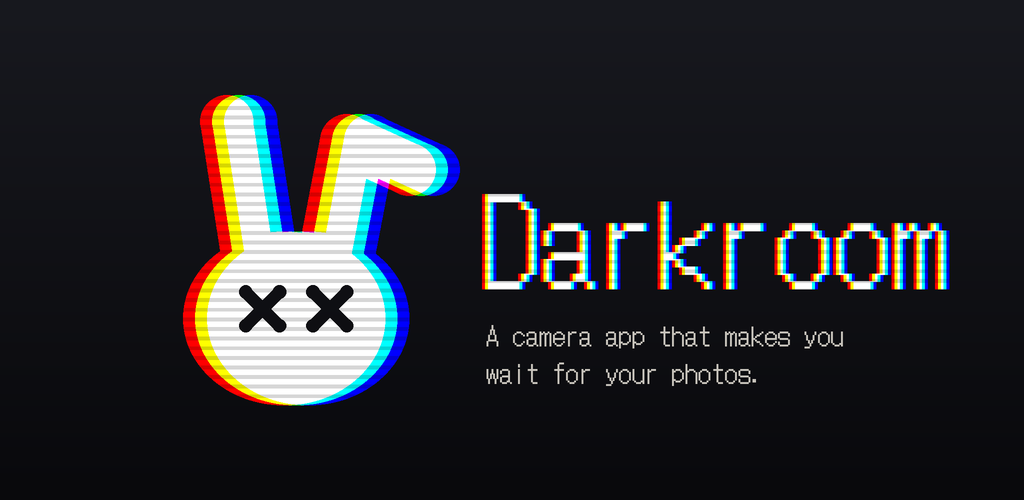
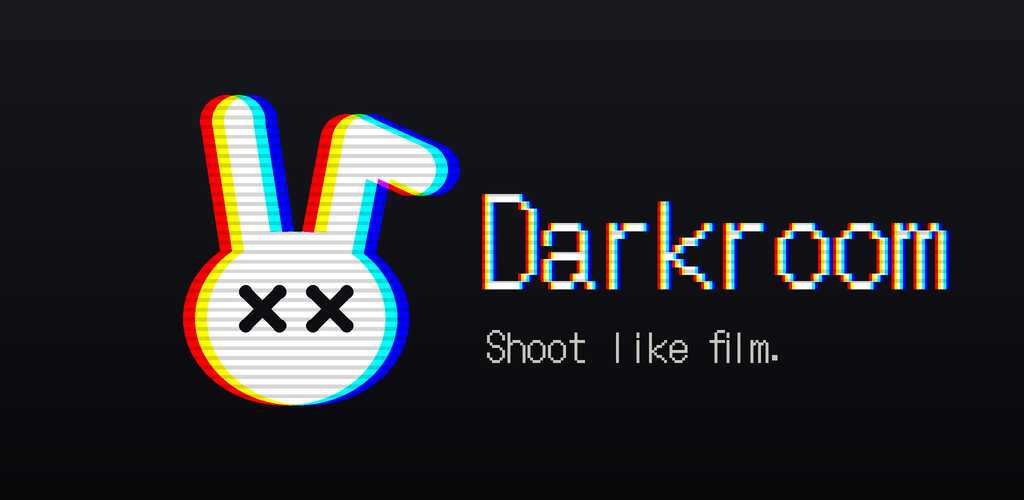
Feature graphic and social preview: 'Shoot like film.'

Changed region(s): [[0.4688, 0.66, 0.8438, 0.78]]

diff --git a/tool/icon/make_icons.py b/tool/icon/make_icons.py
@@ -167,7 +167,7 @@ def status_glyph(px):
 
 def social_preview(w=1280, h=640):
     """Banner: the rabbit, the name in the app's pixel font with the same
-    colour split, and the one-line pitch. 1280x640 for GitHub's social
+    colour split, and the tagline. 1280x640 for GitHub's social
     preview, 1024x500 for the Play Store feature graphic."""
     S = 2
     k = h / 640
@@ -186,7 +186,7 @@ def social_preview(w=1280, h=640):
 
     # Name: three offset copies of the text, added like light.
     font = ImageFont.truetype(os.path.join(ROOT, 'assets', 'fonts', 'DotGothic16-Regular.ttf'), round(150 * k * S))
-    small = ImageFont.truetype(os.path.join(ROOT, 'assets', 'fonts', 'DotGothic16-Regular.ttf'), round(34 * k * S))
+    small = ImageFont.truetype(os.path.join(ROOT, 'assets', 'fonts', 'DotGothic16-Regular.ttf'), round(52 * k * S))
     tx, ty = round(W * 0.47), round(H * 0.30)
 
     def text_mask(txt, f, dx=0, dy=0):
@@ -199,7 +199,7 @@ def social_preview(w=1280, h=640):
                       text_mask('Darkroom', font, off)], -1)
     glow = split.max(-1)
     img = img * (1 - glow[..., None]) + split * 255 * _scanlines(H, D)[:, :, :1]
-    lines = ['A camera app that makes you', 'wait for your photos.']
+    lines = ['Shoot like film.']
     for i, line in enumerate(lines):
         m = text_mask(line, small, round(6 * k * S), round(H * 0.33) + round(i * 48 * k * S))
         img = img * (1 - m[..., None]) + m[..., None] * np.array((200, 196, 188), np.float32)
